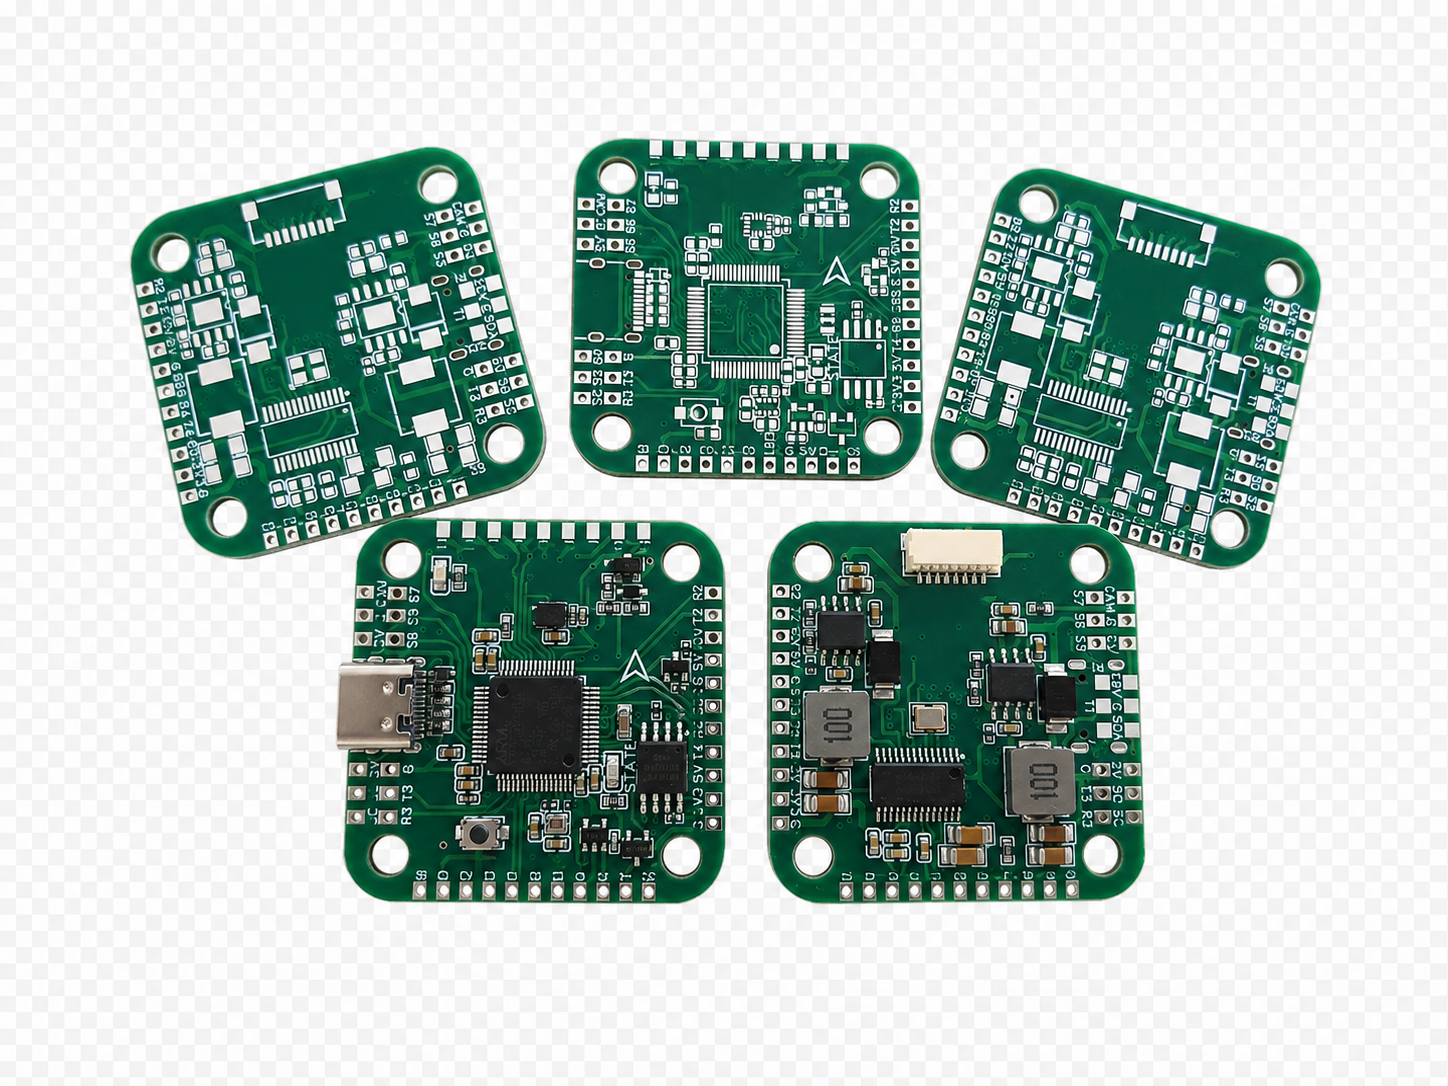
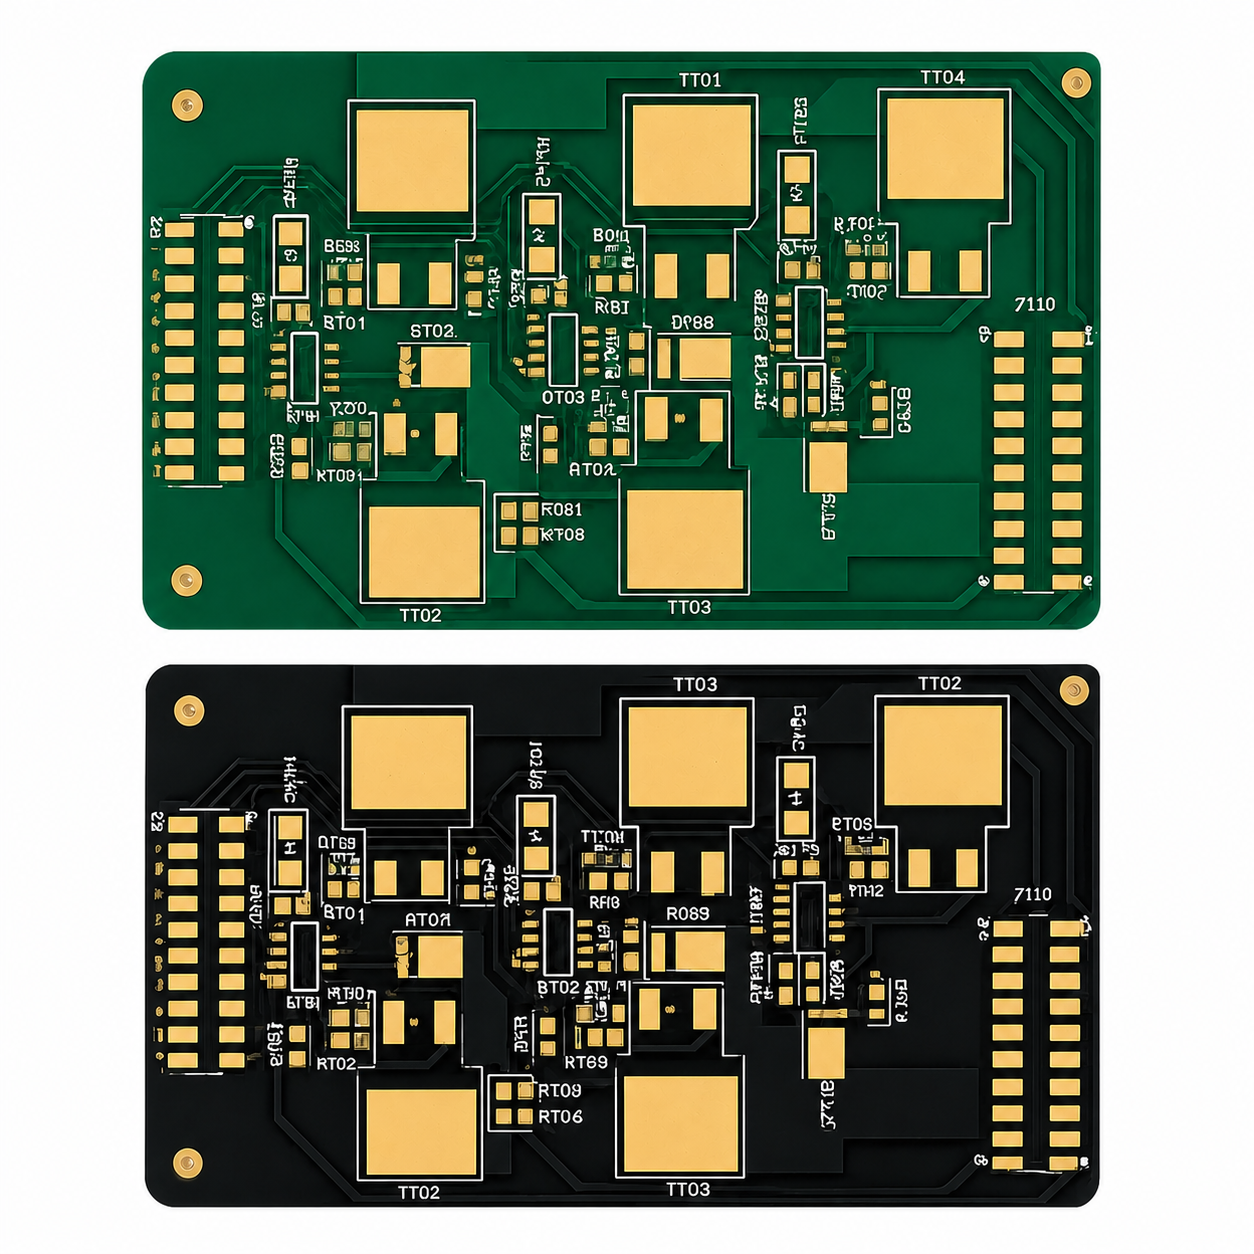
Update catalog backgrounds

diff --git a/apps/web/components/home/ProductCatalog.tsx b/apps/web/components/home/ProductCatalog.tsx
@@ -107,8 +107,8 @@ export function ProductCatalog() {
           })}
         </div>
 
-        <div className="grid overflow-hidden border-b border-line bg-[#eef7ff] md:grid-cols-[1.15fr_0.85fr] md:items-stretch lg:min-h-[31rem] xl:grid-cols-[1.35fr_0.65fr]">
-          <div className="relative min-h-[13.5rem] overflow-hidden bg-[#eef7ff] md:min-h-[25rem] lg:min-h-[29rem]">
+        <div className="grid overflow-hidden border-b border-line bg-white md:grid-cols-[1.15fr_0.85fr] md:items-stretch lg:min-h-[31rem] xl:grid-cols-[1.35fr_0.65fr]">
+          <div className="relative min-h-[13.5rem] overflow-hidden bg-white md:min-h-[25rem] lg:min-h-[29rem]">
             <img
               key={activeCard.image}
               src={activeCard.image}
@@ -120,7 +120,7 @@ export function ProductCatalog() {
           <article className="bg-white p-4 md:p-7 lg:max-w-[26rem] lg:self-center">
             <p className="label-caps text-deepblue">{activeCard.tag}</p>
             <h3 className="mt-2 text-xl font-black text-ink md:mt-3 md:text-2xl lg:text-3xl">{activeCard.title}</h3>
-            <ul className="mt-3 space-y-2 bg-slate-50 p-3 text-sm leading-6 text-slate-600 md:mt-5 md:space-y-3 md:p-4">
+            <ul className="mt-3 space-y-2 border border-line bg-white p-3 text-sm leading-6 text-slate-600 md:mt-5 md:space-y-3 md:p-4">
               {activeCard.details.map((detail) => (
                 <li key={detail} className="flex gap-2">
                   <span className="mt-2 h-1.5 w-1.5 shrink-0 rounded-full bg-deepblue" />